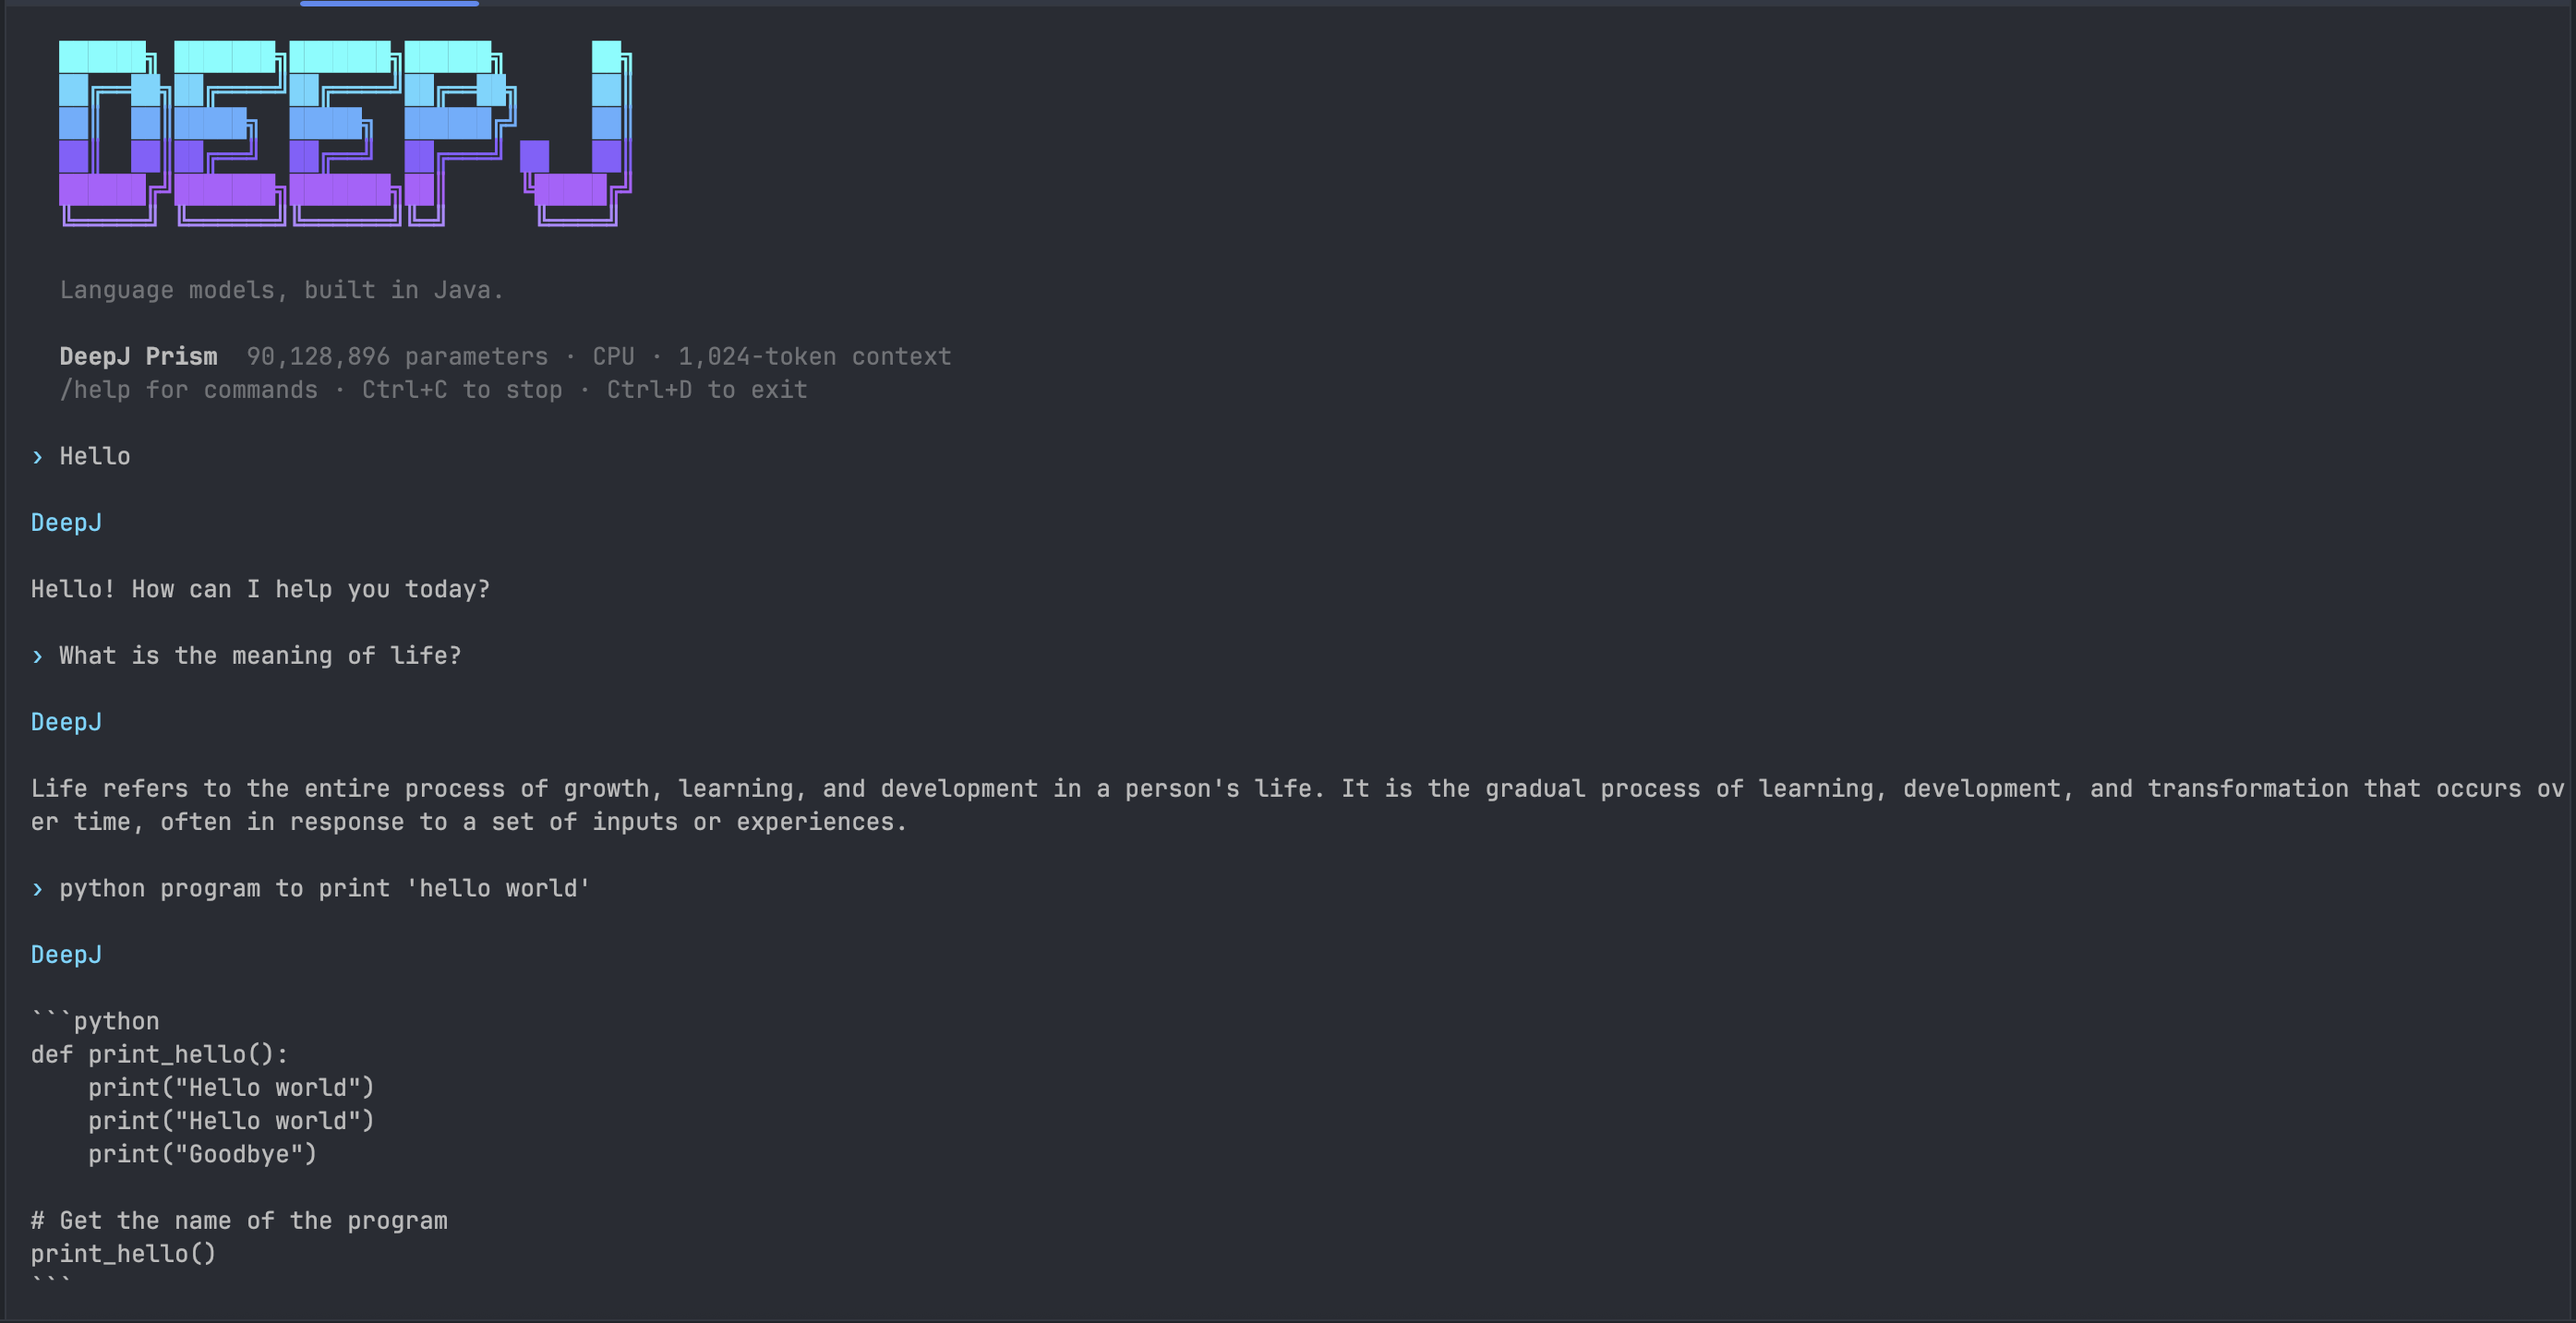
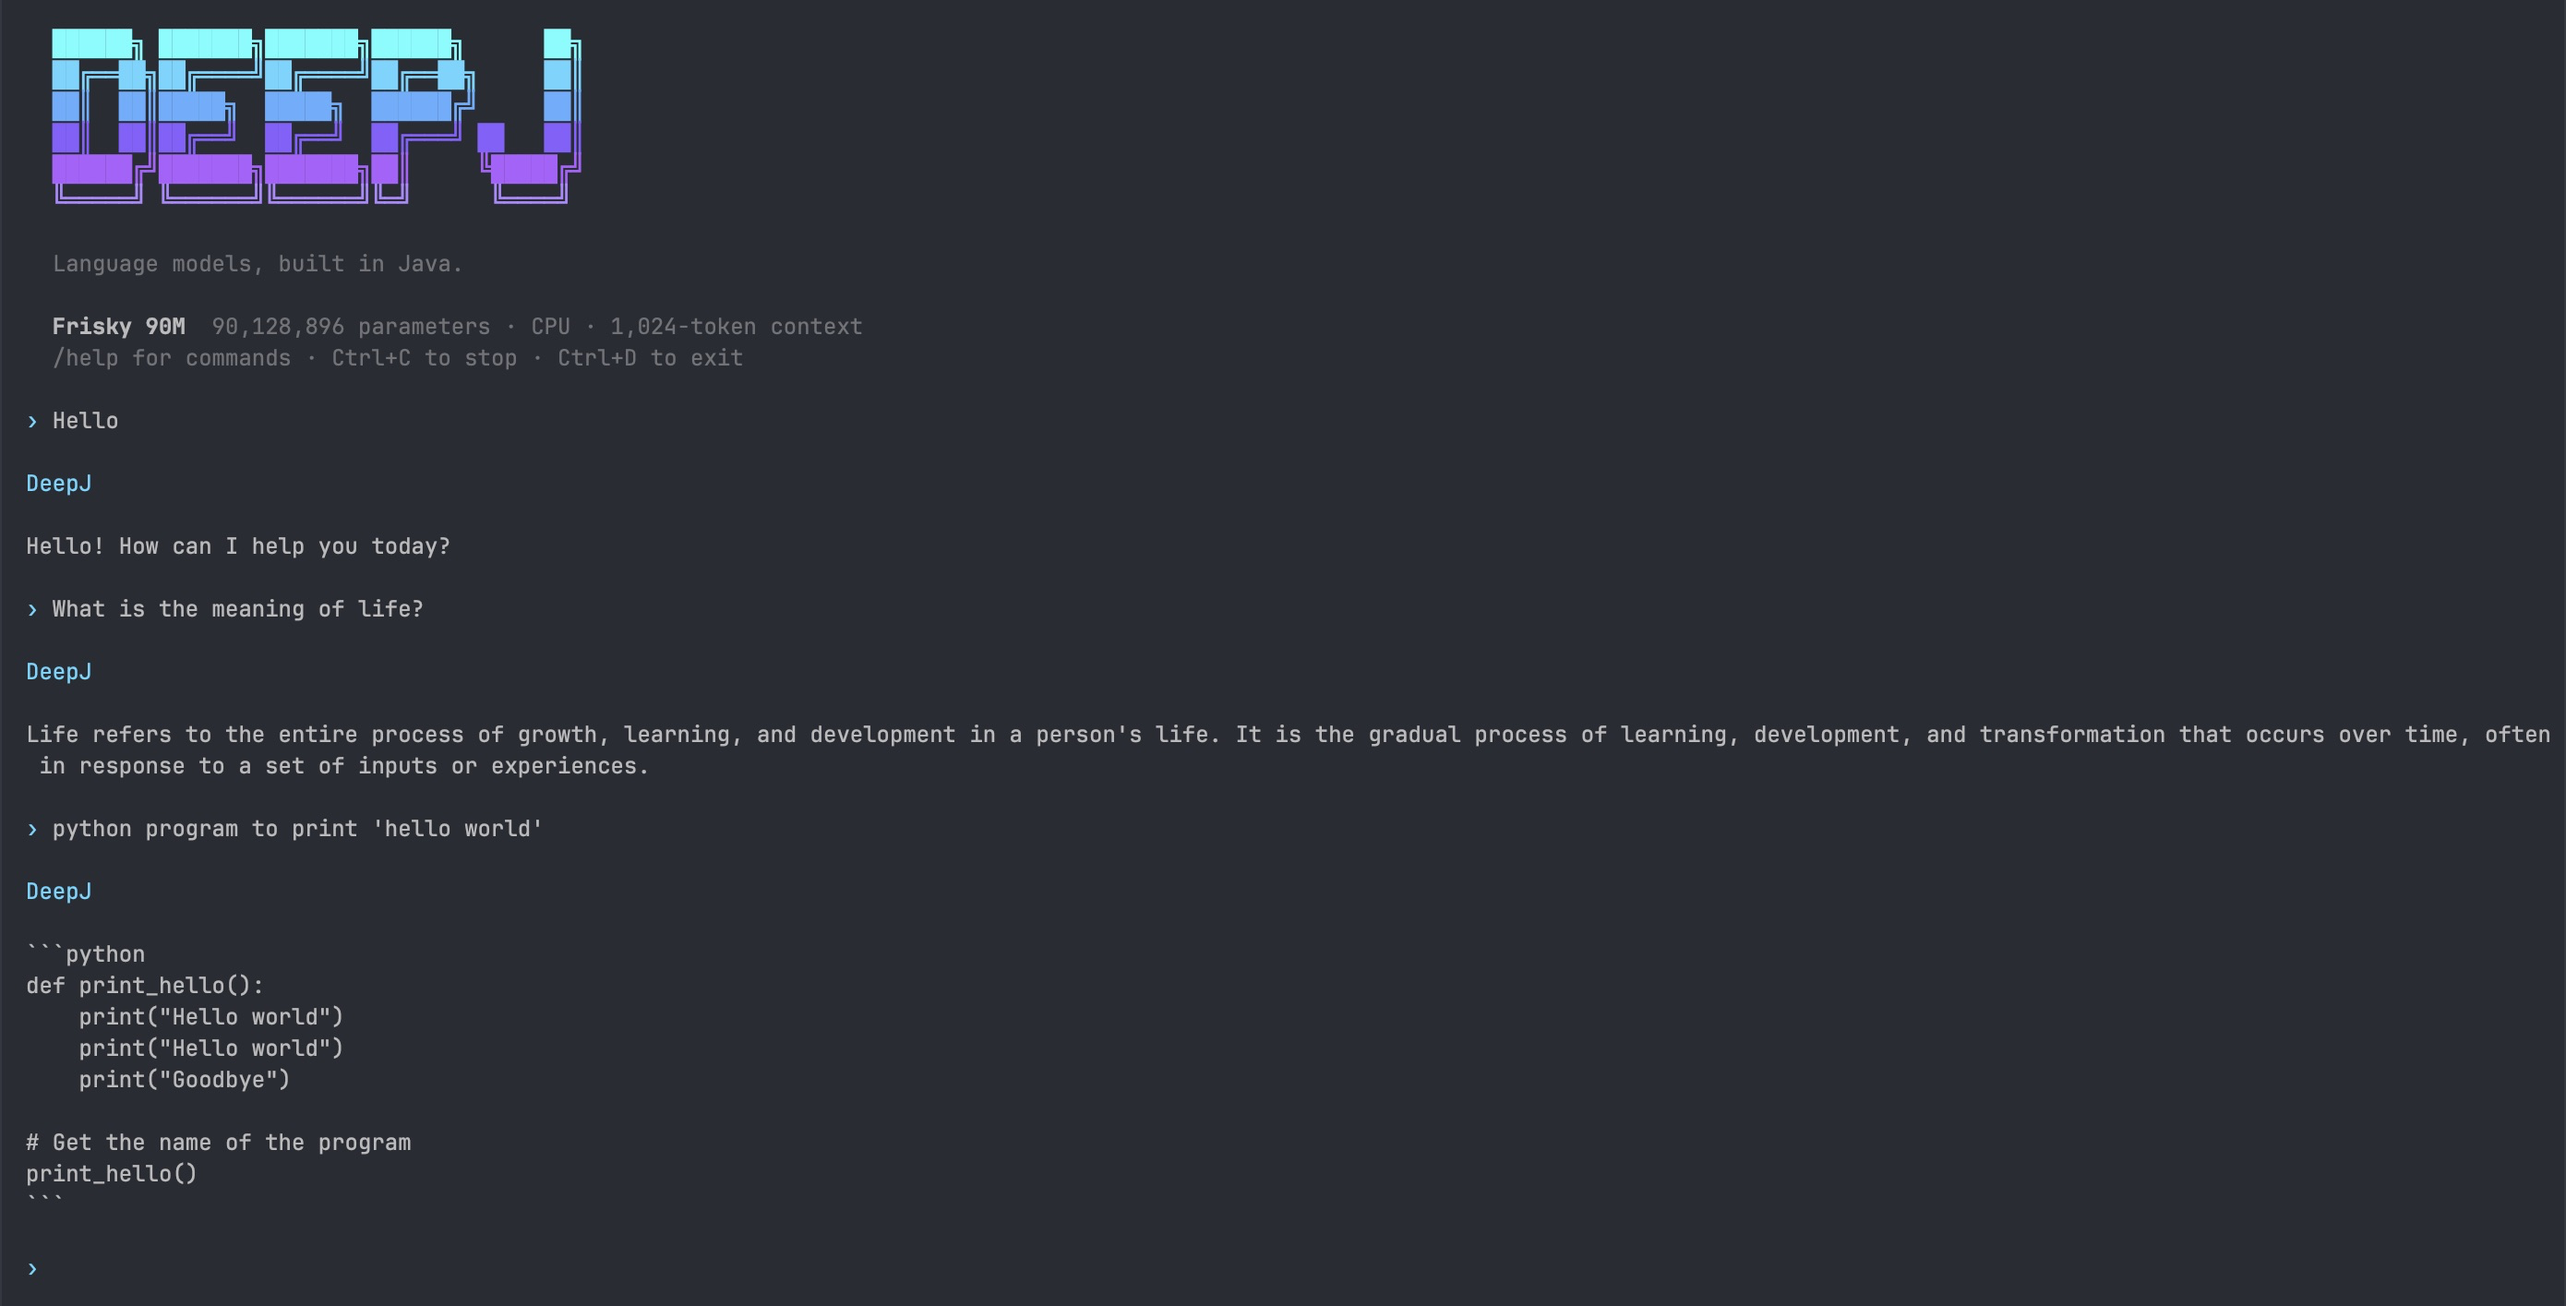
Refresh Frisky CLI screenshot with the original prompts

Changed region(s): [[0.0, 0.0, 0.9899, 0.6841], [0.0, 0.7152, 0.1856, 0.964]]

diff --git a/README.md b/README.md
@@ -54,7 +54,7 @@ java --enable-native-access=ALL-UNNAMED -jar deepj-cli.jar chat ./frisky-90m
 
 The CLI streams responses, supports selectable themes, and uses Metal when available with CPU fallback. See the [CLI guide](docs/cli.md) for commands and controls, and the [model card](https://huggingface.co/netsrik/frisky-90m) for training details.
 
-![DeepJ CLI streaming a response from Frisky 90M](docs/cli.png)
+![Frisky 90M in the DeepJ CLI, with the DeepJ wordmark and three prompt-and-answer exchanges](docs/cli.png)
 
 ## Try Qwen3-1.7B
 
